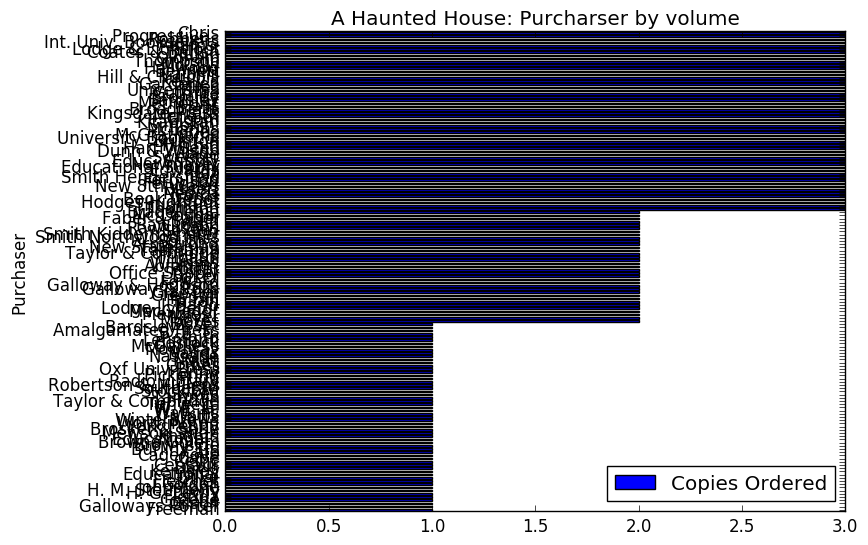
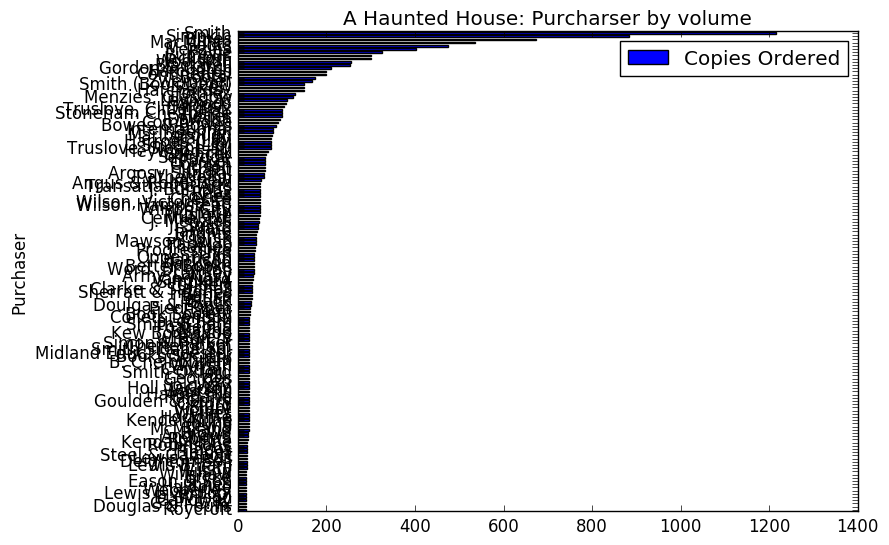
Correct issues with book purchase volume plots and cutoff, now presenting the top 150 SALES in graph, for complete information refer to csv reports

diff --git a/visualize_ob.py b/visualize_ob.py
@@ -166,12 +166,12 @@ def bookpurchaserVolume(df):
 		volumebP = volume[volume >=THRESHOLD]
 		volumebP =volumebP.dropna()
 		# plot chart
-		if not volumebP.empty:
-			volumebP.to_csv("./bookVolumeReportsCorrected/"+title+'bookPurchaserVolumebybook.csv')
 		'''if not volumebP.empty:
-			volumebP[:min(150, len(volumebP.index))].plot.barh(title = title +": "+ 'Purcharser by volume')
+			volumebP.to_csv("./bookVolumeReportsCorrected/"+title+'bookPurchaserVolumebybook.csv')'''
+		if not volumebP.empty:
+			volumebP[len(volumebP.index) - min(150, len(volumebP.index) ):].plot.barh(title = title +": "+ 'Purcharser by volume')
 			#plt.yticks( fontsize=5)
-			plt.savefig("./volumebybookpurchaserCorrected/"+title+'volume.png', bbox_inches='tight',dpi=100)'''
+			plt.savefig("./volumebybookpurchaserCorrected/"+title+'volume.png', bbox_inches='tight',dpi=100)
 #plt.show()
 
 #Plot each individual year as an individual plot and show the income by month
